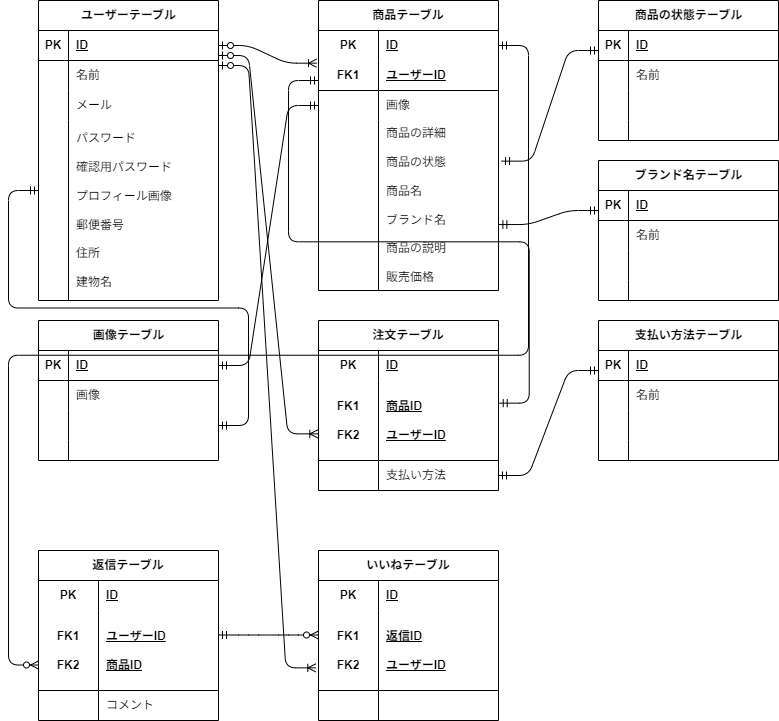
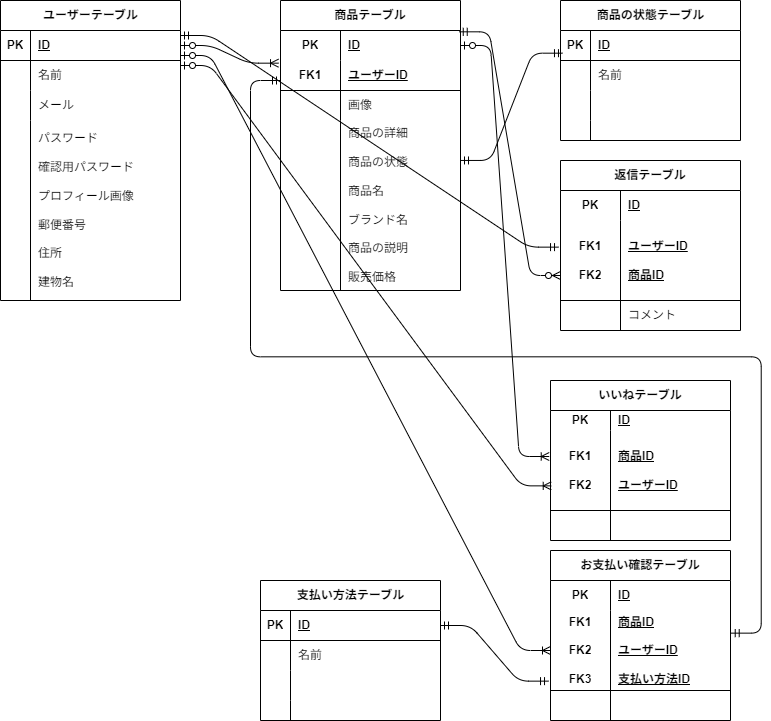
ER図修正

diff --git a/src/resources/views/index.blade.php b/src/resources/views/index.blade.php
@@ -1,0 +1,15 @@
+<!DOCTYPE html>
+<html lang="ja">
+
+<head>
+  <meta charset="UTF-8" />
+  <meta http-equiv="X-UA-Compatible" content="IE=edge" />
+  <meta name="viewport" content="width=device-width, initial-scale=1.0" />
+  <title>coachtechフリマ</title>
+  <link rel="stylesheet" href="{{ asset('css/sanitize.css') }}" />
+  <link rel="stylesheet" href="{{ asset('css/common.css') }}" />
+</head>
+
+<body>
+<h1>coachtechフリマ</h1>
+</body>
